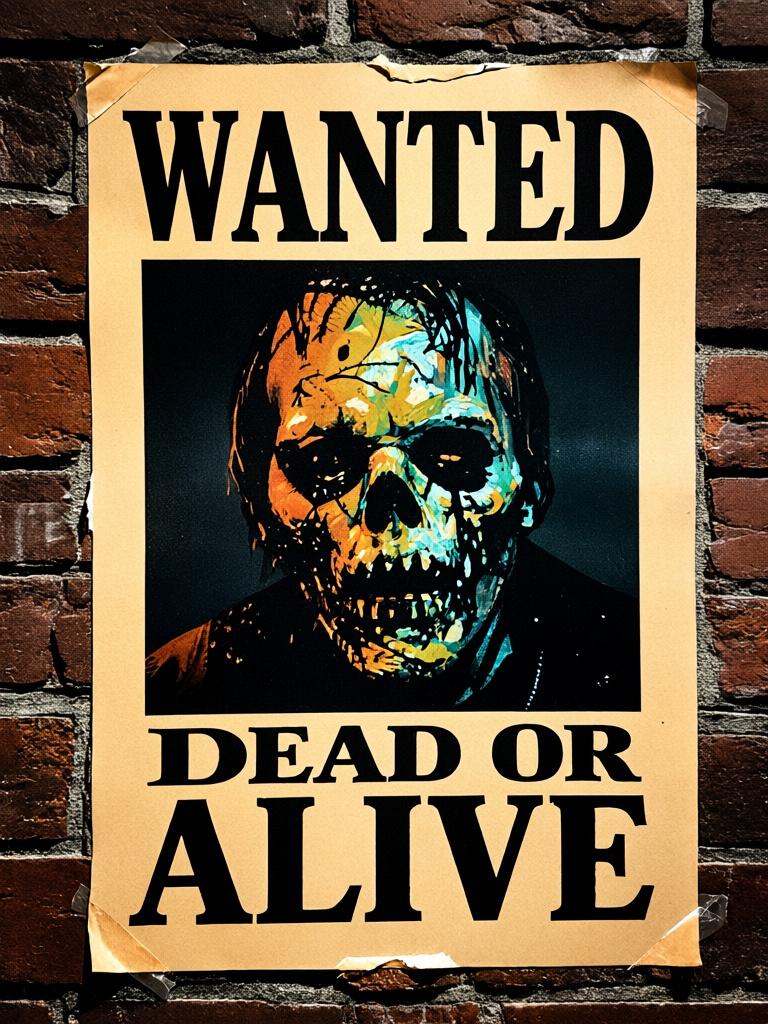
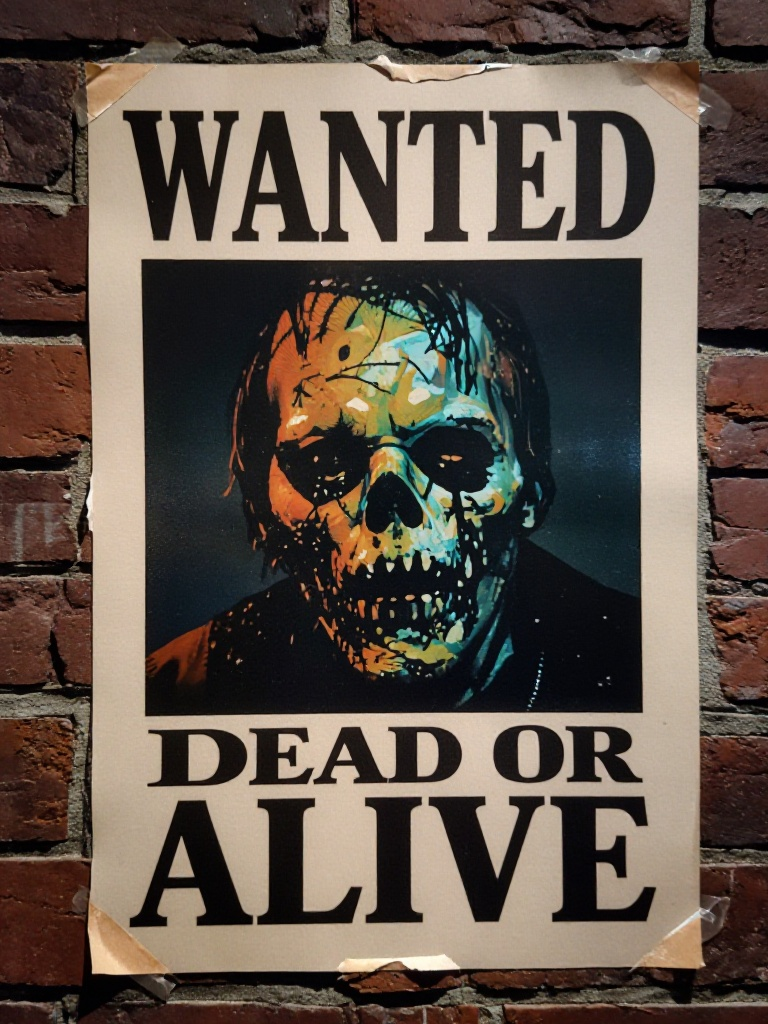
v4 snow ground-splash + softer ground strips + poster_v2 (v17): ground reads as snow, not blue asphalt
- Snow ground-splash (V2P-7): addGroundDressing now scatters 96 deterministic
  soft-white snow patches (one additive InstancedMesh, y=0.012, seeded LCG, no
  Math.random) across the whole 180m ground, so the pavement reads as fresh snow
  instead of flat blue asphalt. Before this the only snow dressing was 8 corner
  drifts + a faint compaction map, so the ground read ~50% saturated blue.
- Softened the harsh ground lines the user called 'red and blue lines': the blue
  street centerlines (0x3d6fa8 opaque) -> 0x6f86a6 additive 0.28 opacity, and the
  red danger/outer strips (0xff4433 opaque) -> 0xff6a52 additive 0.32, so they
  read as faint icy/ember tints rather than painted stripes.
- poster_v2.jpg (768x1024 wanted poster, user-approved) replaces poster.jpg.
- city.test.mjs + material-hierarchy.test.mjs updated for the new colors, the
  +1 splash InstancedMesh (18->19) and mesh count 244->245.
387/387, verify 81/0/0, build ok, check-assets 60/0, secrets clean. VLM: 'the
ground is covered in white snow'; saturated ground blue 50%->0.4%.

diff --git a/src/world/cityDressing.js b/src/world/cityDressing.js
@@ -310,7 +310,12 @@ export function addLandmarks(group) {
     }
   }
   // 10 street strips along street center lines (always walkable, no aabbs).
-  const stripMat = new THREE.MeshBasicMaterial({ color: 0x3d6fa8 })
+  // v17: the old fully-saturated unlit blue (0x3d6fa8, MeshBasicMaterial) read
+  // as a harsh blue LINE painted across the snow — the user's "blue lines on the
+  // ground" complaint. Desaturated toward the snow tone + made translucent +
+  // additive so the centerline now reads as a faint icy sheen on the pavement
+  // rather than a colored stripe, while still hinting street direction.
+  const stripMat = new THREE.MeshBasicMaterial({ color: 0x6f86a6, transparent: true, opacity: 0.28, blending: THREE.AdditiveBlending, depthWrite: false })
   const stripGeoV = new THREE.BoxGeometry(0.35, 0.05, 176)
   const stripGeoH = new THREE.BoxGeometry(176, 0.05, 0.35)
   // v4 budget (B): 5 vertical + 5 horizontal strips share one material but were
@@ -353,7 +358,11 @@ export function addPlazaHalos(group, centers) {
 // strips clear of the blue directional strips (y 0.005..0.055) at crossings.
 // No lights, no aabbs, no sprites, no Math.random.
 export function addDangerStrips(group) {
-  const mat = new THREE.MeshBasicMaterial({ color: 0xff4433 })
+  // v17: was a fully-opaque saturated red (0xff4433) that read as a bright red
+  // LINE across the snow ("red lines on the ground"). Now a dim, translucent
+  // additive ember tint so the danger corridor still reads as caution but no
+  // longer as a painted stripe.
+  const mat = new THREE.MeshBasicMaterial({ color: 0xff6a52, transparent: true, opacity: 0.32, blending: THREE.AdditiveBlending, depthWrite: false })
   const geoZ = new THREE.BoxGeometry(0.35, 0.05, 76.5) // along z at x=0
   const geoX = new THREE.BoxGeometry(74.5, 0.05, 0.35) // along x at z=0
   const pos = [[0, 0.09, 41.25, geoZ], [0, 0.09, -41.25, geoZ], [42.25, 0.09, 0, geoX], [-42.25, 0.09, 0, geoX]]
@@ -418,7 +427,10 @@ export function addSigns(group, centers) {
 // cross. Shared geometry/material, no lights, no AABBs, no sprites, no
 // Math.random.
 export function addOuterStrips(group) {
-  const mat = new THREE.MeshBasicMaterial({ color: 0xff4433 })
+  // v17: same softening as the danger cross — a dim additive ember tint instead
+  // of an opaque red stripe, so the outer street ends read as a faint caution
+  // glow rather than a painted red line on the snow.
+  const mat = new THREE.MeshBasicMaterial({ color: 0xff6a52, transparent: true, opacity: 0.32, blending: THREE.AdditiveBlending, depthWrite: false })
   const geoV = new THREE.BoxGeometry(0.35, 0.05, 19.5) // runs along z
   const geoH = new THREE.BoxGeometry(19.5, 0.05, 0.35) // runs along x
   // v4 budget (B): 5 streets × 2 ends × 2 orientations = 20 strips share one
@@ -566,6 +578,40 @@ export function addGroundDressing(group, canvasFactory) {
   }
   drifts.instanceMatrix.needsUpdate = true
   group.add(drifts)
+  // v17 snow ground-splash (V2P-7): deterministic snow-accumulation speckles
+  // scattered across the WHOLE ground plane, so the pavement reads as fresh
+  // snow rather than as flat blue asphalt. Before this the only snow dressing
+  // was the 8 corner drifts + a faint compaction noise map, so the ground read
+  // ~50% saturated blue (the user's "blue lines on the ground"). One
+  // InstancedMesh of small soft white discs laid just above the plane
+  // (y=0.012, clear of the 0.005..0.055 strips so nothing z-fights), scaled +
+  // rotated per instance from a seeded LCG (no Math.random). 96 patches over
+  // the 180 m plane (one mesh, StaticDrawUsage, additive so it brightens the
+  // snow without new lights). Headless (canvasFactory null) still adds the
+  // mesh — it is geometry-only, so the count is stable in tests.
+  const splashGeo = new THREE.CircleGeometry(1, 12)
+  splashGeo.rotateX(-Math.PI / 2)
+  const splashMat = new THREE.MeshBasicMaterial({ color: 0xeef4ff, transparent: true, opacity: 0.16, blending: THREE.AdditiveBlending, depthWrite: false })
+  const SPLASH_N = 96
+  const splash = new THREE.InstancedMesh(splashGeo, splashMat, SPLASH_N)
+  splash.instanceMatrix.setUsage(THREE.StaticDrawUsage)
+  let ss = 1337
+  const srnd = () => (ss = (Math.imul(ss, 48271) >>> 0) % 65537) / 65537
+  const sq = new THREE.Quaternion()
+  const eul = new THREE.Euler()
+  const sp = new THREE.Vector3()
+  const sc = new THREE.Vector3()
+  for (let j = 0; j < SPLASH_N; j++) {
+    sp.set((srnd() - 0.5) * 168, 0.012, (srnd() - 0.5) * 168)
+    const r = 1.2 + srnd() * 2.6 // patch radius 1.2..3.8 m
+    sc.set(r, 1, r * (0.6 + srnd() * 0.7)) // squash into an elongated drift
+    eul.set(0, srnd() * Math.PI * 2, 0)
+    sq.setFromEuler(eul)
+    m.compose(sp, sq, sc)
+    splash.setMatrixAt(j, m)
+  }
+  splash.instanceMatrix.needsUpdate = true
+  group.add(splash)
 }
 
 // Wanted poster: a weathered "WANTED — DEAD OR ALIVE" placard with a zombie
